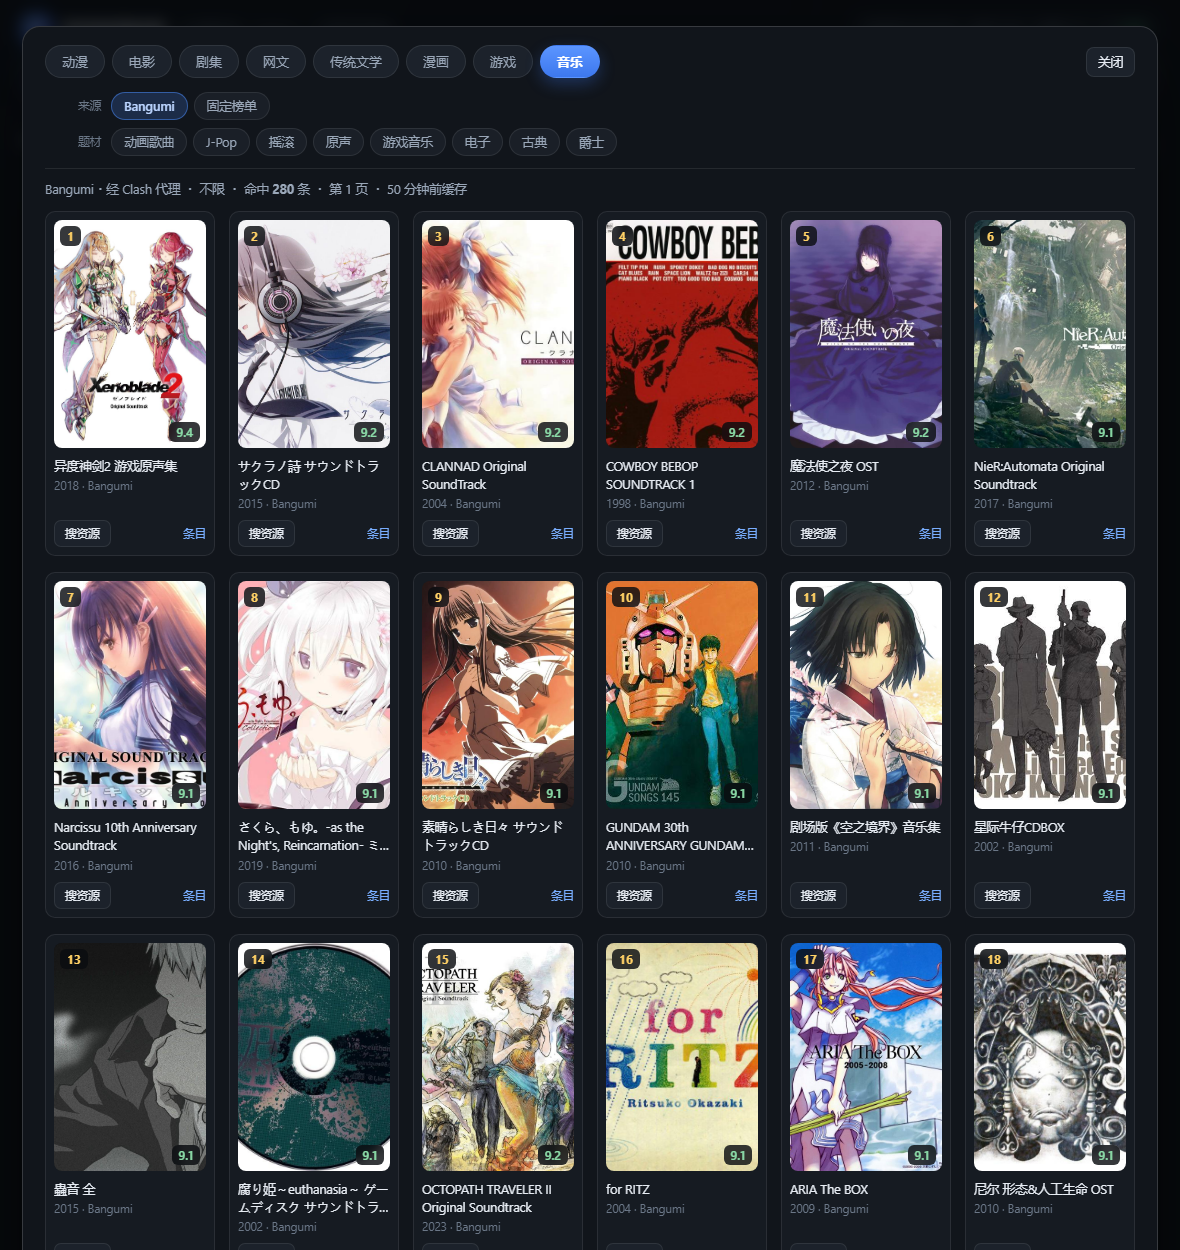
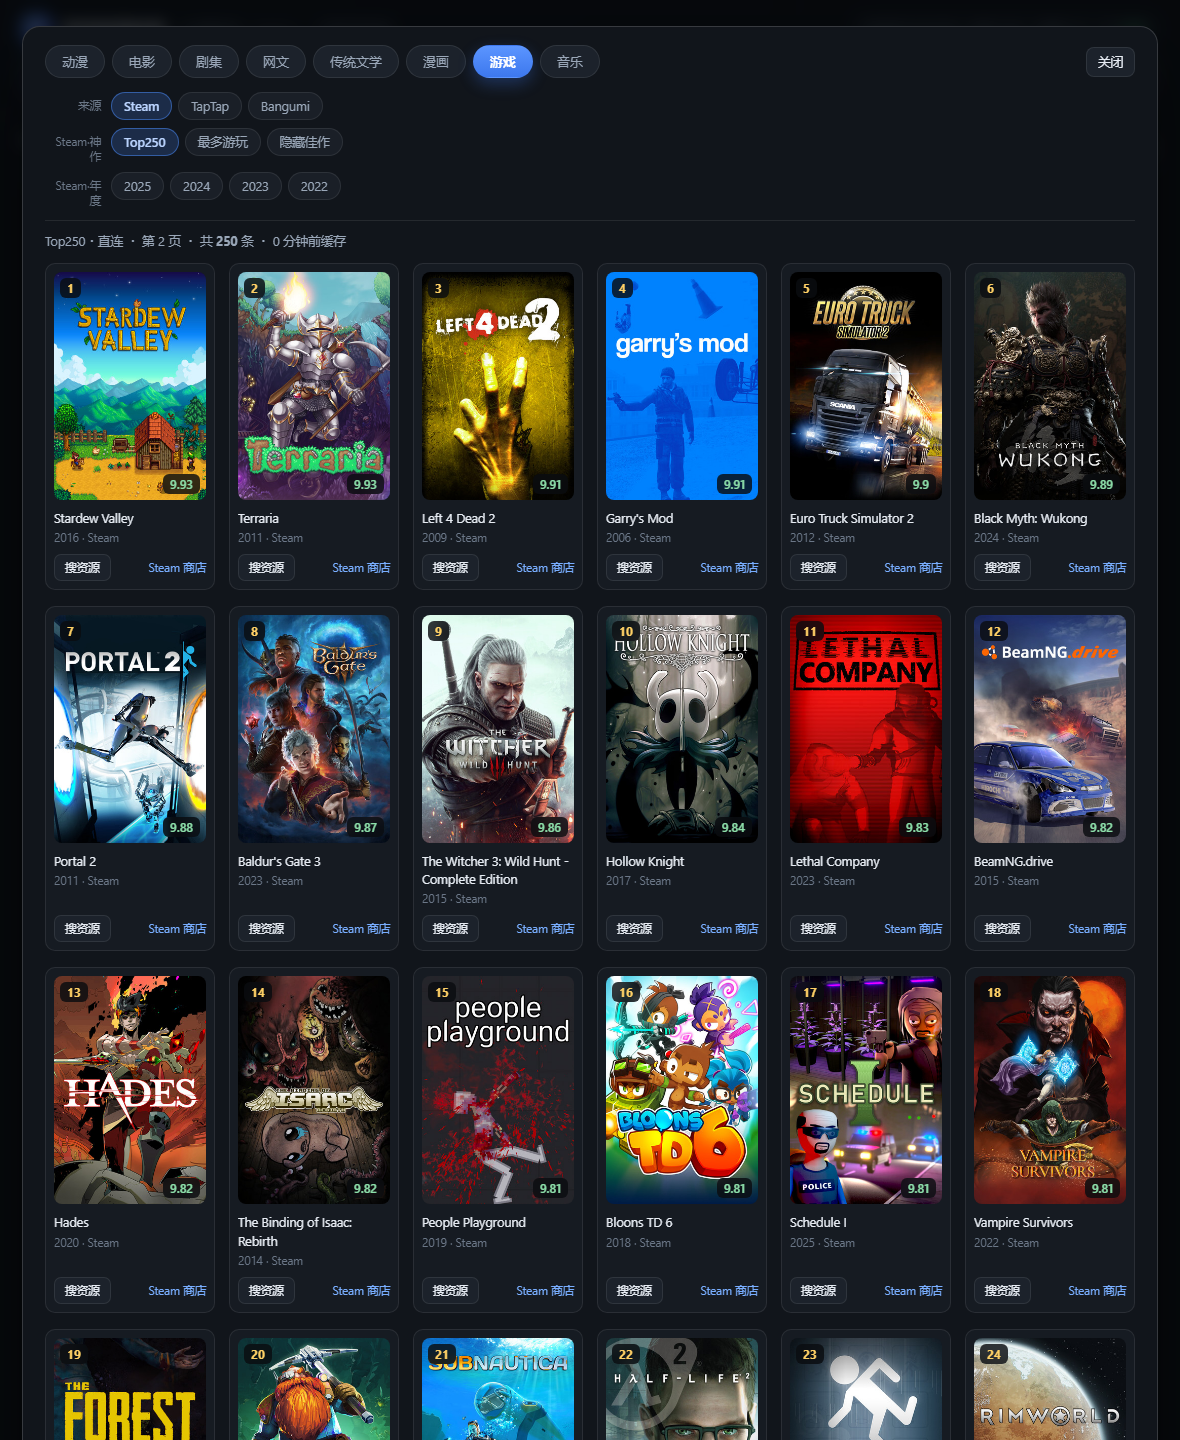
Steam 封面改官方竖版海报(library_600x900) + 缺图自动回退横版胶囊 + 榜单缓存加版本号/过期清理

diff --git a/app/ui/rank.js b/app/ui/rank.js
@@ -652,8 +652,18 @@ async function buildLocalGamePool(regions, genres) {
 }
 
 /* ---------- 缓存 ---------- */
+/* 榜单条目结构改过就把版本号 +1，旧缓存自动失效 */
+const CACHE_VER = 'v2';
+const ck = (k) => CACHE_VER + '|' + k;
 let disk = {};
 try { disk = JSON.parse(fs.readFileSync(CACHE_FILE, 'utf8')) || {}; } catch (e) { disk = {}; }
+/* 顺手清掉 3 天没动过的条目，别让缓存文件一直涨 */
+try {
+  const cut = Date.now() - 3 * 24 * 3600e3;
+  let dropped = 0;
+  Object.keys(disk).forEach((k) => { const r = disk[k]; if (!r || !r.t || r.t < cut) { delete disk[k]; dropped++; } });
+  if (dropped) console.log('[rank] 清理过期榜单缓存 ' + dropped + ' 条');
+} catch (e) {}
 let saveTimer = null;
 function saveSoon() {
   if (saveTimer) return;
@@ -831,7 +841,7 @@ async function getFiltered(cat, srcId, regions, genres, page, limit, refresh, bo
   const pg = Math.max(1, Math.min(parseInt(page || 1, 10), src.maxPages || 20));
   const rk = regions.map((r) => (typeof r === 'string' ? r : (r.n || r.t))).join(',');
   const gk = genres.join(',');
-  const key = 'pool:' + cat + ':' + src.id + '|' + rk + '|' + gk;
+  const key = ck('pool:' + cat + ':' + src.id + '|' + rk + '|' + gk);
 
   /* 本地游戏库还在增量抓取，用短 TTL 让它跟着涨 */
   const ttl = src.kind === 'localGame' ? 60000 : TTL_POOL;
@@ -878,7 +888,7 @@ async function getRank(cat, boardId, page, limit, refresh) {
   const lim = Math.max(1, Math.min(parseInt(limit || 24, 10), 60));
   const pg = Math.max(1, Math.min(parseInt(page || 1, 10), 50));
   const fetchLim = Math.max(24, lim);
-  const key = cat + '|' + board.id + '#' + pg + '#' + fetchLim;
+  const key = ck(cat + '|' + board.id + '#' + pg + '#' + fetchLim);
   const now = Date.now();
   const rec = disk[key];
   const slice = (v) => Object.assign({}, v, { items: v.items.slice(0, lim) });
@@ -976,9 +986,11 @@ async function fetchSteam250(slug, start, limit) {
     const year = ((c.match(/<a href=\/(\d{4})>/) || [])[1]) || '';
     const tagM = c.match(/class="g([123]) tag"[^>]*>([^<]*)</);
     const tag = htmlDecode(tagM ? tagM[2] : '');
+    const capsule = steamImg(img);
     items.push({
       id: 'st' + (app || rank), rank, title, alt: '', year, score, votes,
-      cover: steamImg(img),
+      cover: app ? ('https://shared.steamstatic.com/store_item_assets/steam/apps/' + app + '/library_600x900.jpg') : capsule,
+      coverFallback: app ? capsule : '',
       url: app ? 'https://store.steampowered.com/app/' + app + '/' : '',
       src: 'Steam', urlText: 'Steam 商店', extra: '', tags: tag ? [tag] : [],
     });

diff --git a/app/ui/index.html b/app/ui/index.html
@@ -902,10 +902,11 @@ function rankTabs() {
 
 function rankCard(it) {
   const img = it.cover ? "/api/cover?u=" + encodeURIComponent(it.cover) : "";
+  const fb = it.coverFallback ? "/api/cover?u=" + encodeURIComponent(it.coverFallback) : "";
   const q = escapeHtml(it.title);
   return '<div class="rcard">' +
     '<div class="rposter" data-rsearch="' + q + '" title="点封面直接搜索网盘资源">' +
-      (img ? '<img loading="lazy" src="' + img + '" alt="">' : '<div class="rnoimg">无封面</div>') +
+      (img ? '<img loading="lazy" src="' + img + '"' + (fb ? ' data-fb="' + fb + '"' : '') + ' alt="">' : '<div class="rnoimg">无封面</div>') +
       '<span class="rrank">' + it.rank + "</span>" +
       (it.score ? '<span class="rscore">' + it.score + "</span>" : "") +
       '<svg class="rtimer" viewBox="0 0 26 26" aria-hidden="true"><circle class="bg" cx="13" cy="13" r="10"></circle><circle class="fg" cx="13" cy="13" r="10"></circle></svg>' +
@@ -981,6 +982,15 @@ function rankTipPlace(tip, x, y) {
     if (tip.__for && tip.__for === hoverCard) rankTipPlace(tip, e.clientX, e.clientY);
   });
   grid.addEventListener("mouseleave", function () { rankTipHide(); });
+  /* 竖版封面缺图时自动换回退封面（error 事件不冒泡，只能捕获） */
+  grid.addEventListener("error", function (e) {
+    const im = e.target;
+    if (!im || im.tagName !== "IMG") return;
+    const fb = im.getAttribute("data-fb");
+    if (!fb) return;
+    im.removeAttribute("data-fb");
+    im.src = fb;
+  }, true);
   function nearBottom() {
     return !!rk && !rk.hidden && rk.scrollTop + rk.clientHeight >= rk.scrollHeight - 420;
   }
